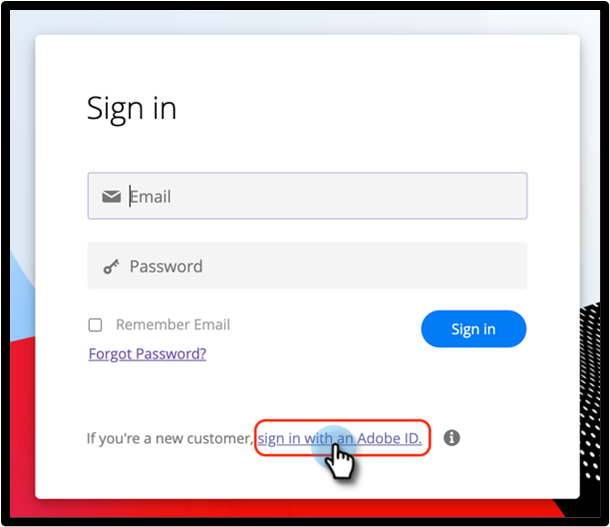
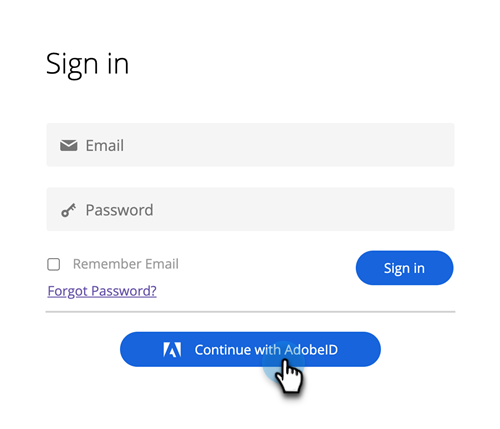
steph doc

diff --git a/help/marketo/product-docs/marketo-sales-insight/actions/faq/how-do-i-resolve-the-we-were-unable-to-authenticate-your-request-error.md b/help/marketo/product-docs/marketo-sales-insight/actions/faq/how-do-i-resolve-the-we-were-unable-to-authenticate-your-request-error.md
@@ -1,0 +1,39 @@
+---
+description: How Do I Resolve the We Were Unable to Authenticate Your Request Error? - Marketo Docs - Product Documentation
+title: How Do I Resolve the We Were Unable to Authenticate Your Request Error?
+hide: yes
+hidefromtoc: yes
+feature: Sales Insight Actions
+---
+# How Do I Resolve the "We Were Unable to Authenticate Your Request" Error? {#how-do-i-resolve-the-we-were-unable-to-authenticate-your-request-error}
+
+If you're trying to connect your Marketo Sales instance to Salesforce and you're seeing the "We are unable to authenticate your request" error, it's likely related to how your Salesforce instance is configured.
+
+There are two types of errors that could be producing this failed authentication page.
+
+* Login error restricted Domain
+* Oauth App Blocked
+
+You can identify which type you're getting by checking the URL.
+
+PICC
+
+PICC
+
+## Resolve Login Error Restricted Domain {#resolve-login-error-restricted-domain}
+
+This error typically indicates you have a custom domain that we're not able to route to. To resolve this error, try signing in to the Salesforce instance you want to connect to first. Then, go through the steps to connect to Salesforce.
+
+If the instance you're trying to connect to is a Salesforce Sandbox domain and you're getting an error, you'll need to go through additional steps to update your instance to be Salesforce Sandbox compatible. [Learn more](/help/marketo/product-docs/marketo-sales-insight/actions/crm/salesforce-integration/set-up-a-sales-insight-actions-sandbox.md){target="_blank"}. 
+
+## Resolve Oauth App Blocked {#resolve-oauth-app-blocked}
+
+This error is typically caused by Salesforce blocking your instance from connecting. A Salesforce admin can resolve this in the Connected Apps Oauth usage section of their account settings.
+
+1. Log in to your Salesforce account. 
+
+1. Navigate to **Setup**. 
+
+1. Search for "Connected Apps Oauth Usage" in the quick find box. 
+
+1. Find the connected app called ToutApp and click **Unblock**.

diff --git a/help/marketo/product-docs/administration/marketo-with-adobe-identity/user-sign-in-with-adobe-id.md b/help/marketo/product-docs/administration/marketo-with-adobe-identity/user-sign-in-with-adobe-id.md
@@ -6,9 +6,9 @@ feature: Marketo with Adobe Identity
 ---
 # User Sign-in with Adobe ID {#user-sign-in-with-adobe-id}
 
-When a user with Adobe Identity needs to log in to the Marketo Engage Application, they must log in through the Adobe ID Login link versus the typical login on the Marketo Login page. Upon clicking the link, the user will be directed to the Marketo Engage Application.
+When a user with Adobe Identity needs to log in to the Marketo Engage Application, they must log in through the AdobeID login link versus the typical login on the Marketo Engage Login page. Upon clicking the link, the user will be directed to the Marketo Engage Application.
 
-1. Click the **[!UICONTROL Sign in with an Adobe ID]** link on the Marketo login page.
+1. Click **[!UICONTROL Continue with AdobeID]** on the Marketo Engage login page.
 
    ![](assets/user-sign-in-with-adobe-id-1.png)
 
